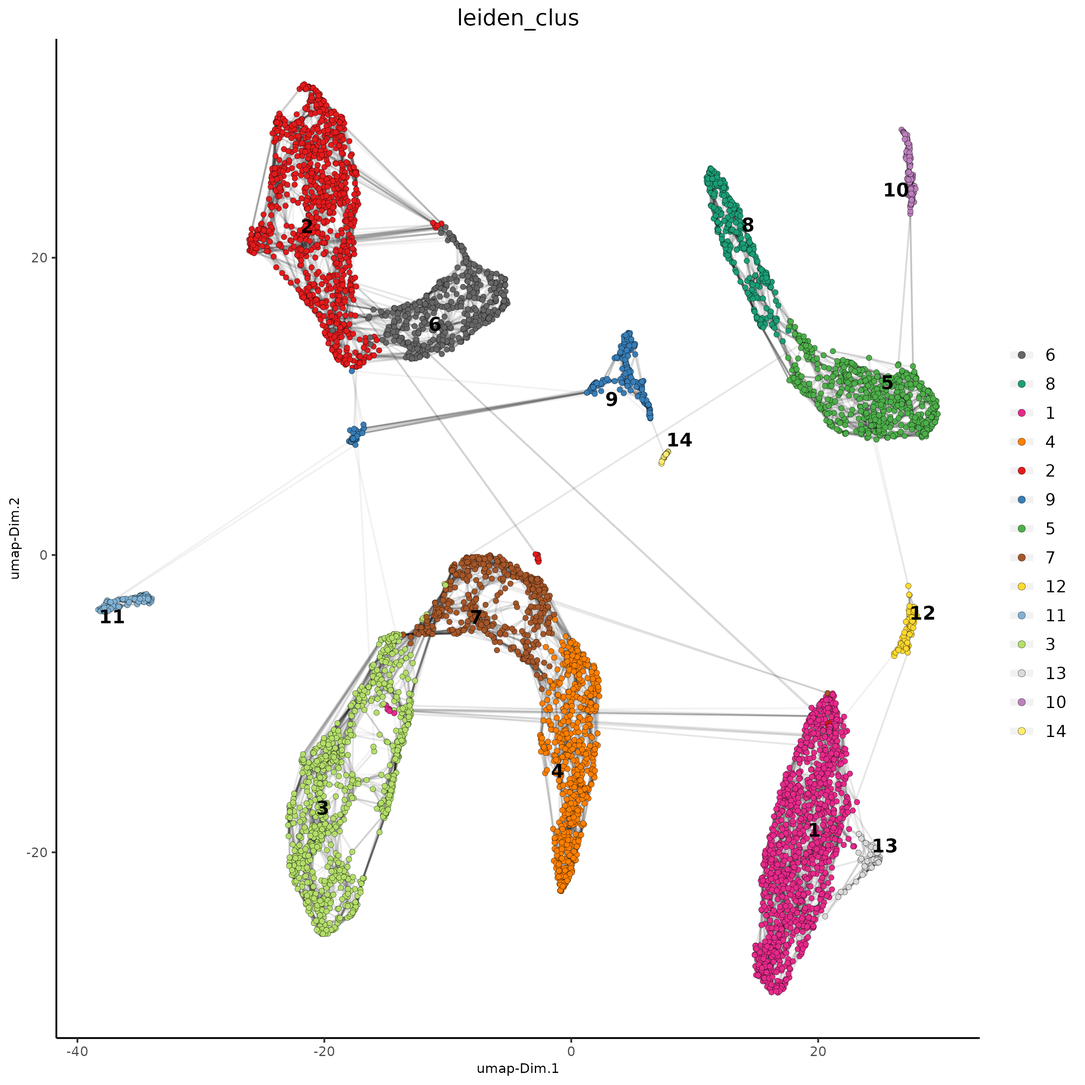
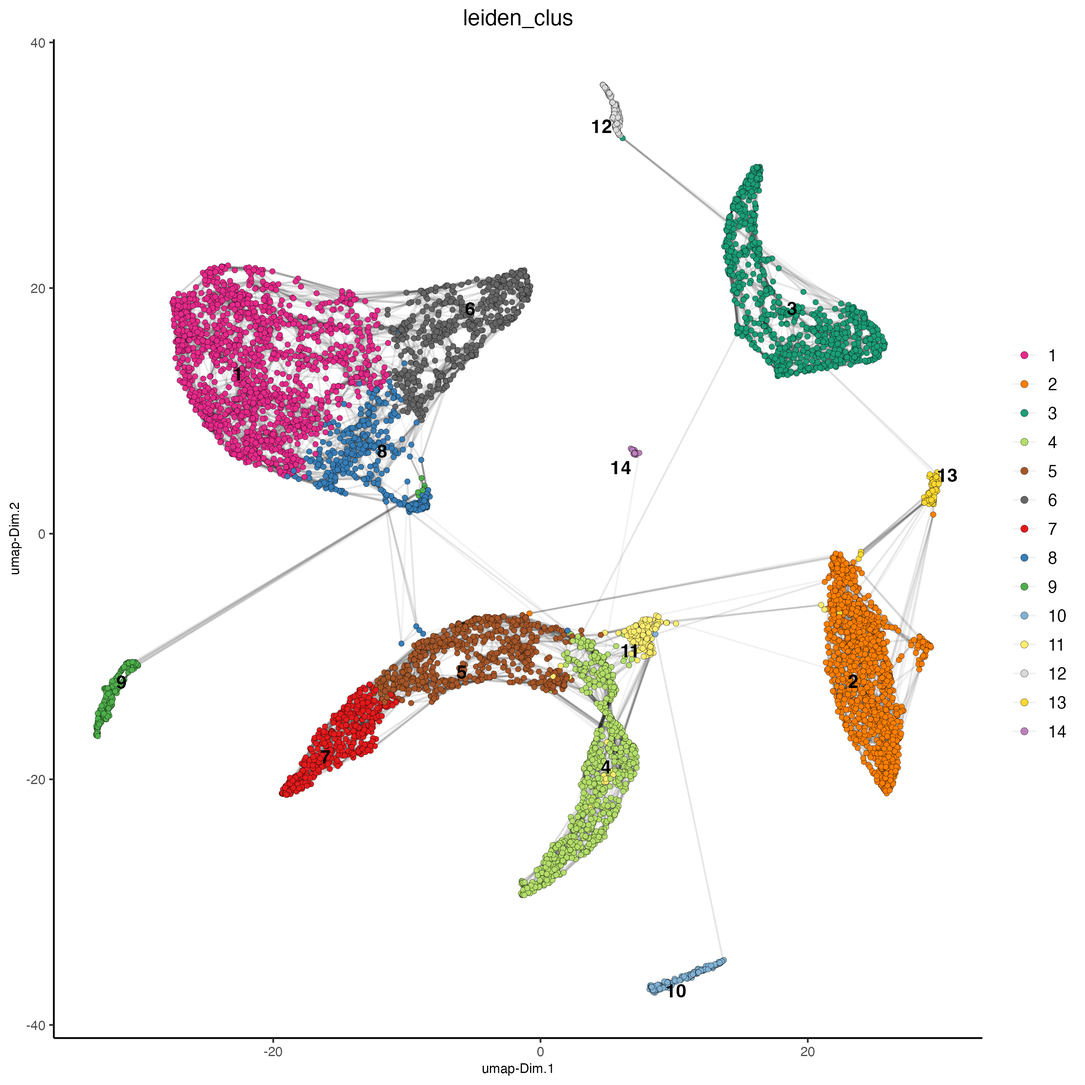
Deploying to gh-pages from @ drieslab/Giotto_website@574d9ca3960edfd9b259bf65ffe3b00fa953a7c6 🚀

diff --git a/articles/singlecell_prostate_integration.html b/articles/singlecell_prostate_integration.html
@@ -371,15 +371,21 @@
 
     
     
+<div class="section level2">
+<h2 id="dataset-explanation">Dataset explanation<a class="anchor" aria-label="anchor" href="#dataset-explanation"></a>
+</h2>
+<p>This is a tutorial for Harmony integration of different single cell
+RNAseq datasets using two prostate cancer patient datasets. <a href="https:/pubmed.ncbi.nlm.nih.gov/33032611/">Ma et al.</a> Processed
+10X Single Cell RNAseq from two prostate cancer patients. The raw
+dataset can be found <a href="https:/www.ncbi.nlm.nih.gov/geo/query/acc.cgi?acc=GSE157703">here</a></p>
+</div>
+<div class="section level2">
+<h2 id="set-up-giotto-environment">Set up Giotto Environment<a class="anchor" aria-label="anchor" href="#set-up-giotto-environment"></a>
+</h2>
 <div class="sourceCode" id="cb1"><pre class="downlit sourceCode r">
 <code class="sourceCode R"><span><span class="co"># Ensure Giotto Suite is installed.</span></span>
 <span><span class="kw">if</span><span class="op">(</span><span class="op">!</span><span class="st">"Giotto"</span> <span class="op"><a href="https://rdrr.io/r/base/match.html" class="external-link">%in%</a></span> <span class="fu"><a href="https://rdrr.io/r/utils/installed.packages.html" class="external-link">installed.packages</a></span><span class="op">(</span><span class="op">)</span><span class="op">)</span> <span class="op">{</span></span>
 <span>  <span class="fu">pak</span><span class="fu">::</span><span class="fu"><a href="https://pak.r-lib.org/reference/pkg_install.html" class="external-link">pkg_install</a></span><span class="op">(</span><span class="st">"drieslab/Giotto"</span><span class="op">)</span></span>
-<span><span class="op">}</span></span>
-<span></span>
-<span><span class="co"># Ensure GiottoData, a small, helper module for tutorials, is installed.</span></span>
-<span><span class="kw">if</span><span class="op">(</span><span class="op">!</span><span class="st">"GiottoData"</span> <span class="op"><a href="https://rdrr.io/r/base/match.html" class="external-link">%in%</a></span> <span class="fu"><a href="https://rdrr.io/r/utils/installed.packages.html" class="external-link">installed.packages</a></span><span class="op">(</span><span class="op">)</span><span class="op">)</span> <span class="op">{</span></span>
-<span>  <span class="fu">pak</span><span class="fu">::</span><span class="fu"><a href="https://pak.r-lib.org/reference/pkg_install.html" class="external-link">pkg_install</a></span><span class="op">(</span><span class="st">"drieslab/GiottoData"</span><span class="op">)</span></span>
 <span><span class="op">}</span></span>
 <span></span>
 <span><span class="co"># Ensure the Python environment for Giotto has been installed.</span></span>
@@ -388,12 +394,8 @@
 <span>  <span class="co"># The following command need only be run once to install the Giotto environment.</span></span>
 <span>  <span class="fu">Giotto</span><span class="fu">::</span><span class="fu"><a href="https://drieslab.github.io/GiottoClass/reference/installGiottoEnvironment.html" class="external-link">installGiottoEnvironment</a></span><span class="op">(</span><span class="op">)</span></span>
 <span><span class="op">}</span></span></code></pre></div>
-<div class="section level2">
-<h2 id="set-up-giotto-environment">Set up Giotto Environment<a class="anchor" aria-label="anchor" href="#set-up-giotto-environment"></a>
-</h2>
 <div class="sourceCode" id="cb2"><pre class="downlit sourceCode r">
 <code class="sourceCode R"><span><span class="kw"><a href="https://rdrr.io/r/base/library.html" class="external-link">library</a></span><span class="op">(</span><span class="va"><a href="https://drieslab.github.io/Giotto/" class="external-link">Giotto</a></span><span class="op">)</span></span>
-<span><span class="kw"><a href="https://rdrr.io/r/base/library.html" class="external-link">library</a></span><span class="op">(</span><span class="va"><a href="https://drieslab.github.io/GiottoData/" class="external-link">GiottoData</a></span><span class="op">)</span></span>
 <span></span>
 <span><span class="co"># 1. set working directory</span></span>
 <span><span class="va">results_folder</span> <span class="op">=</span> <span class="st">'path/to/result'</span></span>
@@ -410,36 +412,31 @@
 <span>                                  python_path <span class="op">=</span> <span class="va">my_python_path</span><span class="op">)</span></span></code></pre></div>
 </div>
 <div class="section level2">
-<h2 id="dataset-explanation">Dataset explanation<a class="anchor" aria-label="anchor" href="#dataset-explanation"></a>
-</h2>
-<p>This is a tutorial for Harmony integration of different single cell
-RNAseq datasets using two prostate cancer patient datasets. <a href="https:/pubmed.ncbi.nlm.nih.gov/33032611/">Ma et al.</a> Processed
-10X Single Cell RNAseq from two prostate cancer patients. The raw
-dataset can be found <a href="https:/www.ncbi.nlm.nih.gov/geo/query/acc.cgi?acc=GSE157703">here</a></p>
-</div>
-<div class="section level2">
-<h2 id="part-1-create-giotto-object-from-10x-dataset-and-join">Part 1: Create Giotto object from 10X dataset and join<a class="anchor" aria-label="anchor" href="#part-1-create-giotto-object-from-10x-dataset-and-join"></a>
+<h2 id="create-giotto-object-from-10x-dataset-and-join">1. Create Giotto object from 10X dataset and join<a class="anchor" aria-label="anchor" href="#create-giotto-object-from-10x-dataset-and-join"></a>
 </h2>
 <div class="sourceCode" id="cb3"><pre class="downlit sourceCode r">
-<code class="sourceCode R"><span><span class="va">giotto_P1</span><span class="op">&lt;-</span><span class="fu"><a href="https://drieslab.github.io/GiottoClass/reference/createGiottoObject.html" class="external-link">createGiottoObject</a></span><span class="op">(</span>expression <span class="op">=</span> <span class="fu"><a href="../reference/get10Xmatrix.html">get10Xmatrix</a></span><span class="op">(</span><span class="st">"path/to/P1_result/outs/filtered_feature_bc_matrix"</span>, </span>
-<span>    gene_column_index <span class="op">=</span> <span class="fl">2</span>,</span>
-<span>    remove_zero_rows <span class="op">=</span> <span class="cn">TRUE</span><span class="op">)</span>,</span>
-<span>    instructions <span class="op">=</span> <span class="va">instrs</span><span class="op">)</span> </span>
+<code class="sourceCode R"><span><span class="va">data_dir</span> <span class="op">=</span> <span class="st">"path/to/data/"</span></span>
 <span></span>
-<span><span class="va">giotto_P2</span><span class="op">&lt;-</span><span class="fu"><a href="https://drieslab.github.io/GiottoClass/reference/createGiottoObject.html" class="external-link">createGiottoObject</a></span><span class="op">(</span>expression <span class="op">=</span> <span class="fu"><a href="../reference/get10Xmatrix.html">get10Xmatrix</a></span><span class="op">(</span><span class="st">"path/to/P2_result/outs/filtered_feature_bc_matrix"</span>, </span>
-<span>    gene_column_index <span class="op">=</span> <span class="fl">2</span>,</span>
-<span>    remove_zero_rows <span class="op">=</span> <span class="cn">TRUE</span><span class="op">)</span>,</span>
-<span>    instructions <span class="op">=</span> <span class="va">instrs</span><span class="op">)</span> </span>
+<span><span class="va">expression1</span> <span class="op">=</span> <span class="fu"><a href="https://rdrr.io/r/utils/read.table.html" class="external-link">read.table</a></span><span class="op">(</span><span class="fu"><a href="https://rdrr.io/r/base/paste.html" class="external-link">paste0</a></span><span class="op">(</span><span class="va">data_dir</span>, <span class="st">"GSM4773521_PCa1_gene_counts_matrix.txt"</span><span class="op">)</span><span class="op">)</span></span>
 <span></span>
-<span><span class="va">giotto_SC_join</span> <span class="op">=</span> <span class="fu"><a href="https://drieslab.github.io/GiottoClass/reference/joinGiottoObjects.html" class="external-link">joinGiottoObjects</a></span><span class="op">(</span>gobject_list <span class="op">=</span> <span class="fu"><a href="https://rdrr.io/r/base/list.html" class="external-link">list</a></span><span class="op">(</span><span class="va">giotto_P1</span>, <span class="va">giotto_P2</span><span class="op">)</span>,</span>
-<span>                                   gobject_names <span class="op">=</span> <span class="fu"><a href="https://rdrr.io/r/base/c.html" class="external-link">c</a></span><span class="op">(</span><span class="st">'P1'</span>, <span class="st">'P2'</span><span class="op">)</span>,</span>
-<span>                                   join_method <span class="op">=</span> <span class="st">"z_stack"</span><span class="op">)</span></span></code></pre></div>
+<span><span class="va">giotto_P1</span> <span class="op">&lt;-</span> <span class="fu"><a href="https://drieslab.github.io/GiottoClass/reference/createGiottoObject.html" class="external-link">createGiottoObject</a></span><span class="op">(</span>expression <span class="op">=</span> <span class="va">expression1</span>,</span>
+<span>                                instructions <span class="op">=</span> <span class="va">instrs</span><span class="op">)</span> </span>
+<span></span>
+<span><span class="va">expression2</span> <span class="op">=</span> <span class="fu"><a href="https://rdrr.io/r/utils/read.table.html" class="external-link">read.table</a></span><span class="op">(</span><span class="fu"><a href="https://rdrr.io/r/base/paste.html" class="external-link">paste0</a></span><span class="op">(</span><span class="va">data_dir</span>, <span class="st">"GSM4773522_PCa2_gene_counts_matrix.txt"</span><span class="op">)</span><span class="op">)</span></span>
+<span></span>
+<span><span class="va">giotto_P2</span> <span class="op">&lt;-</span> <span class="fu"><a href="https://drieslab.github.io/GiottoClass/reference/createGiottoObject.html" class="external-link">createGiottoObject</a></span><span class="op">(</span>expression <span class="op">=</span> <span class="va">expression2</span>,</span>
+<span>                                instructions <span class="op">=</span> <span class="va">instrs</span><span class="op">)</span> </span>
+<span></span>
+<span><span class="va">giotto_SC_join</span> <span class="op">&lt;-</span> <span class="fu"><a href="https://drieslab.github.io/GiottoClass/reference/joinGiottoObjects.html" class="external-link">joinGiottoObjects</a></span><span class="op">(</span>gobject_list <span class="op">=</span> <span class="fu"><a href="https://rdrr.io/r/base/list.html" class="external-link">list</a></span><span class="op">(</span><span class="va">giotto_P1</span>, <span class="va">giotto_P2</span><span class="op">)</span>,</span>
+<span>                                    gobject_names <span class="op">=</span> <span class="fu"><a href="https://rdrr.io/r/base/c.html" class="external-link">c</a></span><span class="op">(</span><span class="st">'P1'</span>, <span class="st">'P2'</span><span class="op">)</span>,</span>
+<span>                                    join_method <span class="op">=</span> <span class="st">"z_stack"</span><span class="op">)</span></span></code></pre></div>
 </div>
 <div class="section level2">
-<h2 id="part-2-process-joined-object">Part 2: Process Joined object<a class="anchor" aria-label="anchor" href="#part-2-process-joined-object"></a>
+<h2 id="process-joined-object">2. Process Joined object<a class="anchor" aria-label="anchor" href="#process-joined-object"></a>
 </h2>
 <div class="sourceCode" id="cb4"><pre class="downlit sourceCode r">
-<code class="sourceCode R"><span><span class="va">giotto_SC_join</span> <span class="op">&lt;-</span> <span class="fu"><a href="../reference/filterGiotto.html">filterGiotto</a></span><span class="op">(</span>gobject <span class="op">=</span> <span class="va">giotto_SC_join</span>,</span>
+<code class="sourceCode R"><span><span class="co"># filter</span></span>
+<span><span class="va">giotto_SC_join</span> <span class="op">&lt;-</span> <span class="fu"><a href="../reference/filterGiotto.html">filterGiotto</a></span><span class="op">(</span>gobject <span class="op">=</span> <span class="va">giotto_SC_join</span>,</span>
 <span>                               expression_threshold <span class="op">=</span> <span class="fl">1</span>,</span>
 <span>                               feat_det_in_min_cells <span class="op">=</span> <span class="fl">50</span>,</span>
 <span>                               min_det_feats_per_cell <span class="op">=</span> <span class="fl">500</span>,</span>
@@ -455,14 +452,16 @@ dataset can be found <a href="https:/www.ncbi.nlm.nih.gov/geo/query/acc.cgi?acc=
 <span>                                expression_values <span class="op">=</span> <span class="st">'raw'</span><span class="op">)</span></span></code></pre></div>
 </div>
 <div class="section level2">
-<h2 id="part-3-dimension-reduction-and-clustering">Part 3: Dimension reduction and clustering<a class="anchor" aria-label="anchor" href="#part-3-dimension-reduction-and-clustering"></a>
+<h2 id="dimension-reduction-and-clustering">3. Dimension reduction and clustering<a class="anchor" aria-label="anchor" href="#dimension-reduction-and-clustering"></a>
 </h2>
 <div class="sourceCode" id="cb5"><pre class="downlit sourceCode r">
 <code class="sourceCode R"><span><span class="co">## PCA ##</span></span>
 <span><span class="va">giotto_SC_join</span> <span class="op">&lt;-</span> <span class="fu"><a href="../reference/calculateHVF.html">calculateHVF</a></span><span class="op">(</span>gobject <span class="op">=</span> <span class="va">giotto_SC_join</span><span class="op">)</span></span>
+<span></span>
 <span><span class="va">giotto_SC_join</span> <span class="op">&lt;-</span> <span class="fu"><a href="../reference/runPCA.html">runPCA</a></span><span class="op">(</span>gobject <span class="op">=</span> <span class="va">giotto_SC_join</span>,</span>
 <span>                         center <span class="op">=</span> <span class="cn">TRUE</span>,</span>
 <span>                         scale_unit <span class="op">=</span> <span class="cn">TRUE</span><span class="op">)</span></span>
+<span></span>
 <span><span class="co"># Check screeplot to select number of PCs for clustering</span></span>
 <span><span class="co"># screePlot(giotto_SC_join, ncp = 30, save_param = list(save_name = '3_scree_plot'))</span></span>
 <span></span>
@@ -472,6 +471,7 @@ dataset can be found <a href="https:/www.ncbi.nlm.nih.gov/geo/query/acc.cgi?acc=
 <span><span class="co">## cluster and run UMAP ##</span></span>
 <span><span class="co"># sNN network (default)</span></span>
 <span><span class="fu"><a href="https://drieslab.github.io/GiottoClass/reference/showGiottoDimRed.html" class="external-link">showGiottoDimRed</a></span><span class="op">(</span><span class="va">giotto_SC_join</span><span class="op">)</span></span>
+<span></span>
 <span><span class="va">giotto_SC_join</span> <span class="op">&lt;-</span> <span class="fu"><a href="https://drieslab.github.io/GiottoClass/reference/createNearestNetwork.html" class="external-link">createNearestNetwork</a></span><span class="op">(</span>gobject <span class="op">=</span> <span class="va">giotto_SC_join</span>,</span>
 <span>                                       dim_reduction_to_use <span class="op">=</span> <span class="st">'pca'</span>,</span>
 <span>                                       dim_reduction_name <span class="op">=</span> <span class="st">'pca'</span>,</span>
@@ -484,7 +484,7 @@ dataset can be found <a href="https:/www.ncbi.nlm.nih.gov/geo/query/acc.cgi?acc=
 <span>                                  n_iterations <span class="op">=</span> <span class="fl">1000</span><span class="op">)</span></span>
 <span></span>
 <span><span class="co"># UMAP</span></span>
-<span><span class="va">giotto_SC_join</span> <span class="op">=</span> <span class="fu"><a href="../reference/runUMAP.html">runUMAP</a></span><span class="op">(</span><span class="va">giotto_SC_join</span><span class="op">)</span></span>
+<span><span class="va">giotto_SC_join</span> <span class="op">&lt;-</span> <span class="fu"><a href="../reference/runUMAP.html">runUMAP</a></span><span class="op">(</span><span class="va">giotto_SC_join</span><span class="op">)</span></span>
 <span></span>
 <span><span class="fu"><a href="https://drieslab.github.io/GiottoVisuals/reference/plotUMAP.html" class="external-link">plotUMAP</a></span><span class="op">(</span>gobject <span class="op">=</span> <span class="va">giotto_SC_join</span>,</span>
 <span>         cell_color <span class="op">=</span> <span class="st">'leiden_clus'</span>,</span>
@@ -501,7 +501,7 @@ dataset can be found <a href="https:/www.ncbi.nlm.nih.gov/geo/query/acc.cgi?acc=
 <span>          show_NN_network <span class="op">=</span> <span class="cn">F</span>,</span>
 <span>          point_size <span class="op">=</span> <span class="fl">0.5</span>, </span>
 <span>          show_center_label <span class="op">=</span> <span class="cn">F</span>,</span>
-<span>          show_legend <span class="op">=</span><span class="cn">F</span>,</span>
+<span>          show_legend <span class="op">=</span> <span class="cn">F</span>,</span>
 <span>          save_param <span class="op">=</span> <span class="fu"><a href="https://rdrr.io/r/base/list.html" class="external-link">list</a></span><span class="op">(</span>save_name <span class="op">=</span> <span class="st">"4_list_without_integration"</span><span class="op">)</span><span class="op">)</span></span></code></pre></div>
 <p><img src="images/singlecell_prostate_integration/4_list_without_integration.png" style="width:50.0%"></p>
 <p>Harmony is a integration algorithm developed by <a href="https:/www.nature.com/articles/s41592-019-0619-0">Korsunsky, I. et
@@ -519,9 +519,9 @@ work well on spatial datasets.</p>
 <span><span class="kw"><a href="https://rdrr.io/r/base/library.html" class="external-link">library</a></span><span class="op">(</span><span class="va">harmony</span><span class="op">)</span></span>
 <span></span>
 <span><span class="co">#pDataDT(giotto_SC_join)</span></span>
-<span><span class="va">giotto_SC_join</span> <span class="op">=</span> <span class="fu"><a href="../reference/runGiottoHarmony.html">runGiottoHarmony</a></span><span class="op">(</span><span class="va">giotto_SC_join</span>,</span>
-<span>                                  vars_use <span class="op">=</span> <span class="st">'list_ID'</span>,</span>
-<span>                                  do_pca <span class="op">=</span> <span class="cn">F</span><span class="op">)</span></span>
+<span><span class="va">giotto_SC_join</span> <span class="op">&lt;-</span> <span class="fu"><a href="../reference/runGiottoHarmony.html">runGiottoHarmony</a></span><span class="op">(</span><span class="va">giotto_SC_join</span>,</span>
+<span>                                   vars_use <span class="op">=</span> <span class="st">'list_ID'</span>,</span>
+<span>                                   do_pca <span class="op">=</span> <span class="cn">F</span><span class="op">)</span></span>
 <span></span>
 <span></span>
 <span><span class="co">## sNN network (default)</span></span>
@@ -542,10 +542,10 @@ work well on spatial datasets.</p>
 <span></span>
 <span><span class="co"># UMAP dimension reduction</span></span>
 <span><span class="co">#showGiottoDimRed(giotto_SC_join)</span></span>
-<span><span class="va">giotto_SC_join</span> <span class="op">=</span> <span class="fu"><a href="../reference/runUMAP.html">runUMAP</a></span><span class="op">(</span><span class="va">giotto_SC_join</span>,</span>
-<span>                         dim_reduction_name <span class="op">=</span> <span class="st">'harmony'</span>,</span>
-<span>                         dim_reduction_to_use <span class="op">=</span> <span class="st">'harmony'</span>,</span>
-<span>                         name <span class="op">=</span> <span class="st">'umap_harmony'</span><span class="op">)</span></span>
+<span><span class="va">giotto_SC_join</span> <span class="op">&lt;-</span> <span class="fu"><a href="../reference/runUMAP.html">runUMAP</a></span><span class="op">(</span><span class="va">giotto_SC_join</span>,</span>
+<span>                          dim_reduction_name <span class="op">=</span> <span class="st">'harmony'</span>,</span>
+<span>                          dim_reduction_to_use <span class="op">=</span> <span class="st">'harmony'</span>,</span>
+<span>                          name <span class="op">=</span> <span class="st">'umap_harmony'</span><span class="op">)</span></span>
 <span></span>
 <span><span class="fu"><a href="https://drieslab.github.io/GiottoVisuals/reference/plotUMAP.html" class="external-link">plotUMAP</a></span><span class="op">(</span>gobject <span class="op">=</span> <span class="va">giotto_SC_join</span>,</span>
 <span>         dim_reduction_name <span class="op">=</span> <span class="st">'umap_harmony'</span>,</span>
@@ -565,7 +565,62 @@ work well on spatial datasets.</p>
 <span>          show_center_label <span class="op">=</span> <span class="cn">F</span>,</span>
 <span>          show_legend <span class="op">=</span><span class="cn">F</span> ,</span>
 <span>          save_param <span class="op">=</span> <span class="fu"><a href="https://rdrr.io/r/base/list.html" class="external-link">list</a></span><span class="op">(</span>save_name <span class="op">=</span> <span class="st">"4_list_with_integration"</span><span class="op">)</span><span class="op">)</span></span></code></pre></div>
-<p><img src="images/singlecell_prostate_integration/4_list_with_integration.png" style="width:50.0%"></p>
+<p><img src="images/singlecell_prostate_integration/4_list_with_integration.png" style="width:50.0%"> # 4. Session Info</p>
+<div class="sourceCode" id="cb9"><pre class="downlit sourceCode r">
+<code class="sourceCode R"><span><span class="fu"><a href="https://rdrr.io/r/utils/sessionInfo.html" class="external-link">sessionInfo</a></span><span class="op">(</span><span class="op">)</span></span></code></pre></div>
+<div class="sourceCode" id="cb10"><pre class="sourceCode r"><code class="sourceCode r"><span id="cb10-1"><a href="#cb10-1" aria-hidden="true" tabindex="-1"></a>R version <span class="dv">4</span>.<span class="fl">3.2</span> (<span class="dv">2023-10-31</span>)</span>
+<span id="cb10-2"><a href="#cb10-2" aria-hidden="true" tabindex="-1"></a>Platform<span class="sc">:</span> aarch64<span class="sc">-</span>apple<span class="sc">-</span><span class="fu">darwin20</span> (<span class="dv">64</span><span class="sc">-</span>bit)</span>
+<span id="cb10-3"><a href="#cb10-3" aria-hidden="true" tabindex="-1"></a>Running under<span class="sc">:</span> macOS Sonoma <span class="dv">14</span>.<span class="fl">2.1</span></span>
+<span id="cb10-4"><a href="#cb10-4" aria-hidden="true" tabindex="-1"></a></span>
+<span id="cb10-5"><a href="#cb10-5" aria-hidden="true" tabindex="-1"></a>Matrix products<span class="sc">:</span> default</span>
+<span id="cb10-6"><a href="#cb10-6" aria-hidden="true" tabindex="-1"></a>BLAS<span class="sc">:</span>   <span class="er">/</span>System<span class="sc">/</span>Library<span class="sc">/</span>Frameworks<span class="sc">/</span>Accelerate.framework<span class="sc">/</span>Versions<span class="sc">/</span>A<span class="sc">/</span>Frameworks<span class="sc">/</span>vecLib.framework<span class="sc">/</span>Versions<span class="sc">/</span>A<span class="sc">/</span>libBLAS.dylib </span>
+<span id="cb10-7"><a href="#cb10-7" aria-hidden="true" tabindex="-1"></a>LAPACK<span class="sc">:</span> <span class="er">/</span>Library<span class="sc">/</span>Frameworks<span class="sc">/</span>R.framework<span class="sc">/</span>Versions<span class="sc">/</span><span class="fl">4.3</span><span class="sc">-</span>arm64<span class="sc">/</span>Resources<span class="sc">/</span>lib<span class="sc">/</span>libRlapack.dylib;  LAPACK version <span class="dv">3</span>.<span class="fl">11.0</span></span>
+<span id="cb10-8"><a href="#cb10-8" aria-hidden="true" tabindex="-1"></a></span>
+<span id="cb10-9"><a href="#cb10-9" aria-hidden="true" tabindex="-1"></a>locale<span class="sc">:</span></span>
+<span id="cb10-10"><a href="#cb10-10" aria-hidden="true" tabindex="-1"></a>[<span class="dv">1</span>] en_US.UTF<span class="dv">-8</span><span class="sc">/</span>en_US.UTF<span class="dv">-8</span><span class="sc">/</span>en_US.UTF<span class="dv">-8</span><span class="sc">/</span>C<span class="sc">/</span>en_US.UTF<span class="dv">-8</span><span class="sc">/</span>en_US.UTF<span class="dv">-8</span></span>
+<span id="cb10-11"><a href="#cb10-11" aria-hidden="true" tabindex="-1"></a></span>
+<span id="cb10-12"><a href="#cb10-12" aria-hidden="true" tabindex="-1"></a>time zone<span class="sc">:</span> America<span class="sc">/</span>New_York</span>
+<span id="cb10-13"><a href="#cb10-13" aria-hidden="true" tabindex="-1"></a>tzcode source<span class="sc">:</span> internal</span>
+<span id="cb10-14"><a href="#cb10-14" aria-hidden="true" tabindex="-1"></a></span>
+<span id="cb10-15"><a href="#cb10-15" aria-hidden="true" tabindex="-1"></a>attached base packages<span class="sc">:</span></span>
+<span id="cb10-16"><a href="#cb10-16" aria-hidden="true" tabindex="-1"></a>[<span class="dv">1</span>] stats     graphics  grDevices utils     datasets  methods   base     </span>
+<span id="cb10-17"><a href="#cb10-17" aria-hidden="true" tabindex="-1"></a></span>
+<span id="cb10-18"><a href="#cb10-18" aria-hidden="true" tabindex="-1"></a>other attached packages<span class="sc">:</span></span>
+<span id="cb10-19"><a href="#cb10-19" aria-hidden="true" tabindex="-1"></a>[<span class="dv">1</span>] harmony_1.<span class="fl">2.0</span>     Rcpp_1.<span class="fl">0.12</span>       Giotto_4.<span class="fl">0.3</span>      GiottoClass_0.<span class="fl">1.3</span></span>
+<span id="cb10-20"><a href="#cb10-20" aria-hidden="true" tabindex="-1"></a></span>
+<span id="cb10-21"><a href="#cb10-21" aria-hidden="true" tabindex="-1"></a>loaded via a <span class="fu">namespace</span> (and not attached)<span class="sc">:</span></span>
+<span id="cb10-22"><a href="#cb10-22" aria-hidden="true" tabindex="-1"></a> [<span class="dv">1</span>] tidyselect_1.<span class="fl">2.0</span>            farver_2.<span class="fl">1.1</span>                dplyr_1.<span class="fl">1.4</span>                </span>
+<span id="cb10-23"><a href="#cb10-23" aria-hidden="true" tabindex="-1"></a> [<span class="dv">4</span>] GiottoVisuals_0.<span class="fl">1.4</span>         bitops_1<span class="fl">.0</span><span class="dv">-7</span>                fastmap_1.<span class="fl">1.1</span>              </span>
+<span id="cb10-24"><a href="#cb10-24" aria-hidden="true" tabindex="-1"></a> [<span class="dv">7</span>] SingleCellExperiment_1.<span class="fl">24.0</span> RCurl_1<span class="fl">.98-1.14</span>             rsvd_1.<span class="fl">0.5</span>                 </span>
+<span id="cb10-25"><a href="#cb10-25" aria-hidden="true" tabindex="-1"></a>[<span class="dv">10</span>] digest_0.<span class="fl">6.34</span>               lifecycle_1.<span class="fl">0.4</span>             terra_1<span class="fl">.7</span><span class="dv">-71</span>               </span>
+<span id="cb10-26"><a href="#cb10-26" aria-hidden="true" tabindex="-1"></a>[<span class="dv">13</span>] dbscan_1<span class="fl">.1</span><span class="dv">-12</span>               magrittr_2.<span class="fl">0.3</span>              compiler_4.<span class="fl">3.2</span>             </span>
+<span id="cb10-27"><a href="#cb10-27" aria-hidden="true" tabindex="-1"></a>[<span class="dv">16</span>] rlang_1.<span class="fl">1.3</span>                 tools_4.<span class="fl">3.2</span>                 igraph_2.<span class="fl">0.2</span>               </span>
+<span id="cb10-28"><a href="#cb10-28" aria-hidden="true" tabindex="-1"></a>[<span class="dv">19</span>] utf8_1.<span class="fl">2.4</span>                  yaml_2.<span class="fl">3.8</span>                  data.table_1.<span class="fl">15.0</span>          </span>
+<span id="cb10-29"><a href="#cb10-29" aria-hidden="true" tabindex="-1"></a>[<span class="dv">22</span>] knitr_1<span class="fl">.45</span>                  S4Arrays_1.<span class="fl">2.0</span>              labeling_0.<span class="fl">4.3</span>             </span>
+<span id="cb10-30"><a href="#cb10-30" aria-hidden="true" tabindex="-1"></a>[<span class="dv">25</span>] reticulate_1.<span class="fl">35.0</span>           DelayedArray_0.<span class="fl">28.0</span>         RColorBrewer_1<span class="fl">.1</span><span class="dv">-3</span>         </span>
+<span id="cb10-31"><a href="#cb10-31" aria-hidden="true" tabindex="-1"></a>[<span class="dv">28</span>] BiocParallel_1.<span class="fl">36.0</span>         abind_1<span class="fl">.4</span><span class="dv">-5</span>                 withr_3.<span class="fl">0.0</span>                </span>
+<span id="cb10-32"><a href="#cb10-32" aria-hidden="true" tabindex="-1"></a>[<span class="dv">31</span>] BiocGenerics_0.<span class="fl">48.1</span>         grid_4.<span class="fl">3.2</span>                  stats4_4.<span class="fl">3.2</span>               </span>
+<span id="cb10-33"><a href="#cb10-33" aria-hidden="true" tabindex="-1"></a>[<span class="dv">34</span>] fansi_1.<span class="fl">0.6</span>                 beachmat_2.<span class="fl">18.1</span>             colorspace_2<span class="fl">.1</span><span class="dv">-0</span>           </span>
+<span id="cb10-34"><a href="#cb10-34" aria-hidden="true" tabindex="-1"></a>[<span class="dv">37</span>] future_1.<span class="fl">33.1</span>               ggplot2_3.<span class="fl">4.4</span>               globals_0.<span class="fl">16.2</span>             </span>
+<span id="cb10-35"><a href="#cb10-35" aria-hidden="true" tabindex="-1"></a>[<span class="dv">40</span>] scales_1.<span class="fl">3.0</span>                gtools_3.<span class="fl">9.5</span>                SummarizedExperiment_1.<span class="fl">32.0</span></span>
+<span id="cb10-36"><a href="#cb10-36" aria-hidden="true" tabindex="-1"></a>[<span class="dv">43</span>] cli_3.<span class="fl">6.2</span>                   rmarkdown_2<span class="fl">.25</span>              crayon_1.<span class="fl">5.2</span>               </span>
+<span id="cb10-37"><a href="#cb10-37" aria-hidden="true" tabindex="-1"></a>[<span class="dv">46</span>] ragg_1.<span class="fl">2.7</span>                  generics_0.<span class="fl">1.3</span>              rstudioapi_0.<span class="fl">15.0</span>          </span>
+<span id="cb10-38"><a href="#cb10-38" aria-hidden="true" tabindex="-1"></a>[<span class="dv">49</span>] future.apply_1.<span class="fl">11.1</span>         rjson_0.<span class="fl">2.21</span>                zlibbioc_1.<span class="fl">48.0</span>            </span>
+<span id="cb10-39"><a href="#cb10-39" aria-hidden="true" tabindex="-1"></a>[<span class="dv">52</span>] parallel_4.<span class="fl">3.2</span>              XVector_0.<span class="fl">42.0</span>              matrixStats_1.<span class="fl">2.0</span>          </span>
+<span id="cb10-40"><a href="#cb10-40" aria-hidden="true" tabindex="-1"></a>[<span class="dv">55</span>] vctrs_0.<span class="fl">6.5</span>                 Matrix_1<span class="fl">.6</span><span class="dv">-5</span>                jsonlite_1.<span class="fl">8.8</span>             </span>
+<span id="cb10-41"><a href="#cb10-41" aria-hidden="true" tabindex="-1"></a>[<span class="dv">58</span>] BiocSingular_1.<span class="fl">18.0</span>         IRanges_2.<span class="fl">36.0</span>              S4Vectors_0.<span class="fl">40.2</span>           </span>
+<span id="cb10-42"><a href="#cb10-42" aria-hidden="true" tabindex="-1"></a>[<span class="dv">61</span>] ggrepel_0.<span class="fl">9.5</span>               irlba_2.<span class="dv">3</span>.<span class="fl">5.1</span>               listenv_0.<span class="fl">9.1</span>              </span>
+<span id="cb10-43"><a href="#cb10-43" aria-hidden="true" tabindex="-1"></a>[<span class="dv">64</span>] systemfonts_1.<span class="fl">0.5</span>           magick_2.<span class="fl">8.3</span>                GiottoUtils_0.<span class="fl">1.5</span>          </span>
+<span id="cb10-44"><a href="#cb10-44" aria-hidden="true" tabindex="-1"></a>[<span class="dv">67</span>] glue_1.<span class="fl">7.0</span>                  parallelly_1.<span class="fl">37.0</span>           codetools_0<span class="fl">.2</span><span class="dv">-19</span>           </span>
+<span id="cb10-45"><a href="#cb10-45" aria-hidden="true" tabindex="-1"></a>[<span class="dv">70</span>] uwot_0.<span class="fl">1.16</span>                 cowplot_1.<span class="fl">1.3</span>               RcppAnnoy_0.<span class="fl">0.22</span>           </span>
+<span id="cb10-46"><a href="#cb10-46" aria-hidden="true" tabindex="-1"></a>[<span class="dv">73</span>] gtable_0.<span class="fl">3.4</span>                GenomeInfoDb_1.<span class="fl">38.6</span>         GenomicRanges_1.<span class="fl">54.1</span>       </span>
+<span id="cb10-47"><a href="#cb10-47" aria-hidden="true" tabindex="-1"></a>[<span class="dv">76</span>] ScaledMatrix_1.<span class="fl">10.0</span>         munsell_0.<span class="fl">5.0</span>               tibble_3.<span class="fl">2.1</span>               </span>
+<span id="cb10-48"><a href="#cb10-48" aria-hidden="true" tabindex="-1"></a>[<span class="dv">79</span>] pillar_1.<span class="fl">9.0</span>                htmltools_0.<span class="fl">5.7</span>             GenomeInfoDbData_1.<span class="fl">2.11</span>    </span>
+<span id="cb10-49"><a href="#cb10-49" aria-hidden="true" tabindex="-1"></a>[<span class="dv">82</span>] R6_2.<span class="fl">5.1</span>                    textshaping_0.<span class="fl">3.7</span>           evaluate_0<span class="fl">.23</span>              </span>
+<span id="cb10-50"><a href="#cb10-50" aria-hidden="true" tabindex="-1"></a>[<span class="dv">85</span>] lattice_0<span class="fl">.22</span><span class="dv">-5</span>              Biobase_2.<span class="fl">62.0</span>              png_0<span class="fl">.1</span><span class="dv">-8</span>                  </span>
+<span id="cb10-51"><a href="#cb10-51" aria-hidden="true" tabindex="-1"></a>[<span class="dv">88</span>] backports_1.<span class="fl">4.1</span>             RhpcBLASctl_0<span class="fl">.23</span><span class="dv">-42</span>         SpatialExperiment_1.<span class="fl">12.0</span>   </span>
+<span id="cb10-52"><a href="#cb10-52" aria-hidden="true" tabindex="-1"></a>[<span class="dv">91</span>] SparseArray_1.<span class="fl">2.4</span>           checkmate_2.<span class="fl">3.1</span>             colorRamp2_0.<span class="fl">1.0</span>           </span>
+<span id="cb10-53"><a href="#cb10-53" aria-hidden="true" tabindex="-1"></a>[<span class="dv">94</span>] xfun_0<span class="fl">.42</span>                   MatrixGenerics_1.<span class="fl">14.0</span>       pkgconfig_2.<span class="fl">0.3</span></span></code></pre></div>
 </div>
   </div>
 
